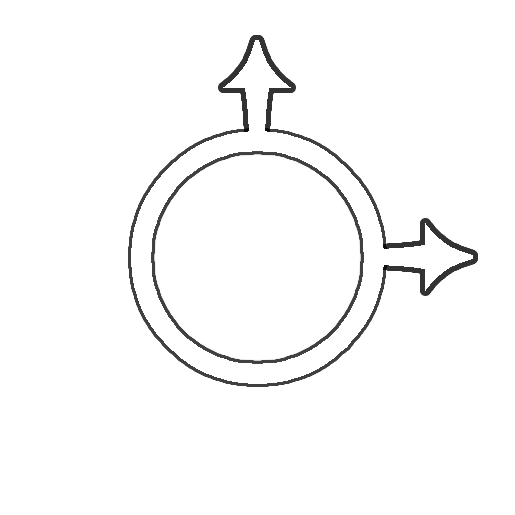
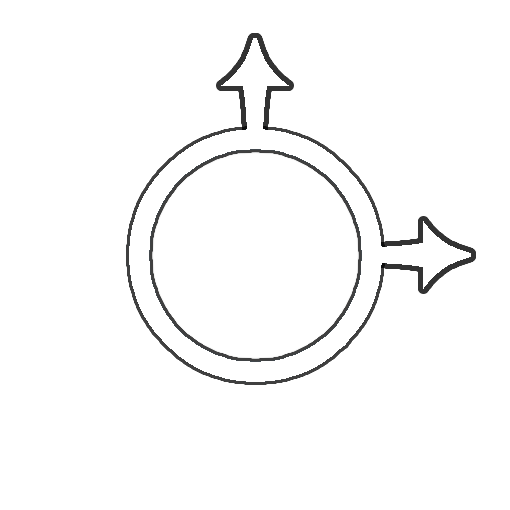
Update to v1.1.8
- fixed a bug in FindConnectedCrossings()
- resized the crossing icons (again) to remove aliasing

diff --git a/AdvancedFlowManagement/Patches/Overlay_Patches.cs b/AdvancedFlowManagement/Patches/Overlay_Patches.cs
@@ -62,16 +62,20 @@ namespace AdvancedFlowManagement {
                OverlayLegend.OverlayInfoUnit crossing_infoUnit1 = new OverlayLegend.OverlayInfoUnit(MYSPRITES.GetSprite("afm_crossingThick_ui"), Util.StripTextFormatting(MYSTRINGS.OVERLAYITEMS.JUNCTION.NAME), CrossingSprite.normalColor, Color.white);
                crossing_infoUnit1.tooltip = "<b>" + MYSTRINGS.OVERLAYITEMS.JUNCTION.NAME + "</b>\n" +
                        MYSTRINGS.OVERLAYITEMS.JUNCTION.TOOLTIP;
+
                OverlayLegend.OverlayInfoUnit crossing_infoUnit2 = new OverlayLegend.OverlayInfoUnit(MYSPRITES.GetSprite("afm_crossingInput_L_ui"), Util.StripTextFormatting(MYSTRINGS.OVERLAYITEMS.JUNCTIONINPUT.NAME), CrossingSprite.normalColor, Color.white);
                crossing_infoUnit2.tooltip = "<b>" + MYSTRINGS.OVERLAYITEMS.JUNCTIONINPUT.NAME + "</b>\n" +
                        (conduit_type.Equals(ConduitType.Liquid) ? MYSTRINGS.OVERLAYITEMS.JUNCTIONINPUT.TOOLTIP_LIQUID : MYSTRINGS.OVERLAYITEMS.JUNCTIONINPUT.TOOLTIP_GAS);
+
                OverlayLegend.OverlayInfoUnit crossing_infoUnit3 = new OverlayLegend.OverlayInfoUnit(MYSPRITES.GetSprite("afm_crossingOutput_R_ui"), Util.StripTextFormatting(MYSTRINGS.OVERLAYITEMS.JUNCTIONOUTPUT.NAME), CrossingSprite.normalColor, Color.white);
                crossing_infoUnit3.tooltip = "<b>" + MYSTRINGS.OVERLAYITEMS.JUNCTIONOUTPUT.NAME + "</b>\n" +
                        (conduit_type.Equals(ConduitType.Liquid) ? MYSTRINGS.OVERLAYITEMS.JUNCTIONOUTPUT.TOOLTIP_LIQUID : MYSTRINGS.OVERLAYITEMS.JUNCTIONOUTPUT.TOOLTIP_GAS);
+
                OverlayLegend.OverlayInfoUnit crossing_infoUnit4 = new OverlayLegend.OverlayInfoUnit(MYSPRITES.GetSprite("afm_crossingThick_ui"), Util.StripTextFormatting(MYSTRINGS.OVERLAYITEMS.ILLEGALJUNCTION.NAME), CrossingSprite.highlightedColor, Color.white);
                crossing_infoUnit4.tooltip = "<b>" + MYSTRINGS.OVERLAYITEMS.ILLEGALJUNCTION.NAME + "</b>\n" +
                        (conduit_type.Equals(ConduitType.Liquid) ? MYSTRINGS.OVERLAYITEMS.ILLEGALJUNCTION.TOOLTIP_LIQUID : MYSTRINGS.OVERLAYITEMS.ILLEGALJUNCTION.TOOLTIP_GAS);
-               overlayInfo.infoUnits.AddRange(new OverlayLegend.OverlayInfoUnit[4] { crossing_infoUnit1, crossing_infoUnit2, crossing_infoUnit3, crossing_infoUnit4 });
+
+               overlayInfo.infoUnits.AddRange(new OverlayLegend.OverlayInfoUnit[] { crossing_infoUnit1, crossing_infoUnit2, crossing_infoUnit3, crossing_infoUnit4 });
                overlayInfo.isProgrammaticallyPopulated = true;// Needed for the crossings filter to appear
             }
          }

diff --git a/AdvancedFlowManagement/CrossingSprite.cs b/AdvancedFlowManagement/CrossingSprite.cs
@@ -20,6 +20,7 @@ namespace AdvancedFlowManagement {
          GameObject crossingIcon_go = Util.KInstantiateUI(crossingIconPrefab, GameScreenManager.Instance.worldSpaceCanvas, true);
          crossingCmp.crossingIcon = crossingIcon_go;
          crossingIcon_go.name = "JunctionIcon";
+
          if(!forceFirstSibling && Utils.TryGetVisualEndpoint(crossingCmp, out _))
          {
             if(Utils.TryGetEndpointVisualizerObj(crossingCmp, false, out GameObject endpoint_go, out _))
@@ -32,7 +33,9 @@ namespace AdvancedFlowManagement {
          {
             crossingIcon_go.transform.SetAsFirstSibling();// needed so that the icon is displayed underneath the SelectMarker
          }
+
          crossingIcon_go.transform.position = Grid.CellToPosCCC(crossingCmp.crossingCell, Grid.SceneLayer.SceneMAX);
+
          Update(crossingCmp);
       }
 
@@ -119,10 +122,12 @@ namespace AdvancedFlowManagement {
       public static GameObject crossingIconPrefab = null;
       public static void CreateCrossingIconPrefab() {
          crossingIconPrefab = new GameObject("JunctionIconPrefab");
-         crossingIconPrefab.transform.localScale = new Vector3(0.0118f, 0.0118f, 1f);
+         crossingIconPrefab.transform.localScale = new Vector3(0.0117f, 0.0117f, 1f);
          crossingIconPrefab.SetActive(false);
-         GameObject pulsing_go = new GameObject("SizePulsingGO");// Needed so that the localScale is a reasonable number(not 0.0118)
+
+         GameObject pulsing_go = new GameObject("SizePulsingGO");// Needed so that the localScale is a reasonable number(not 0.0119)
          pulsing_go.transform.SetParent(crossingIconPrefab.transform, false);
+
          Image image = pulsing_go.AddComponent<Image>();
          image.type = Image.Type.Simple;
          image.raycastTarget = false;

diff --git a/AdvancedFlowManagement/Patches/CrossingsUpdates_Patches.cs b/AdvancedFlowManagement/Patches/CrossingsUpdates_Patches.cs
@@ -261,7 +261,7 @@ namespace AdvancedFlowManagement.Patches {
             string newCrossingID = Utils.GetRotatedCrossingID(beginningCrossingCmp);
             crossingsCluster.Add(beginningCrossingCell, (default, forwardsDirections, default, default));// beginningCrossingCell should be added to the cluster before findingConnectedCrossings
 
-            if(backwardsDirection == -1 ? (newCrossingID != oldCrossingID) : (oldCrossingID.Remove(3 - backwardsDirection, 1) != newCrossingID.Remove(3 - backwardsDirection, 1)))
+            if(backwardsDirection == -1 ? (newCrossingID != oldCrossingID) : (oldCrossingID.Remove(backwardsDirection, 1) != newCrossingID.Remove(backwardsDirection, 1)))
             {
                for(int direction = 0; direction < 4; direction++)
                {
